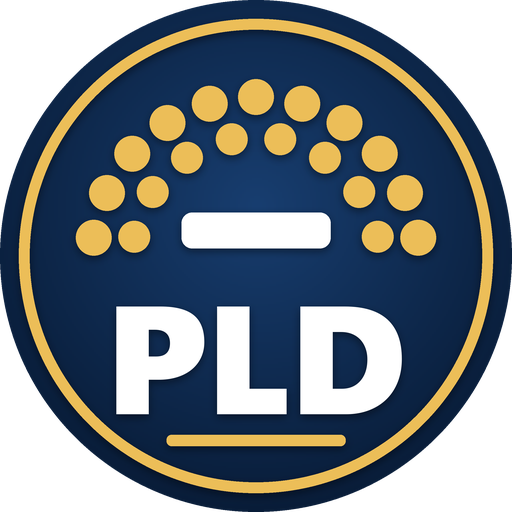
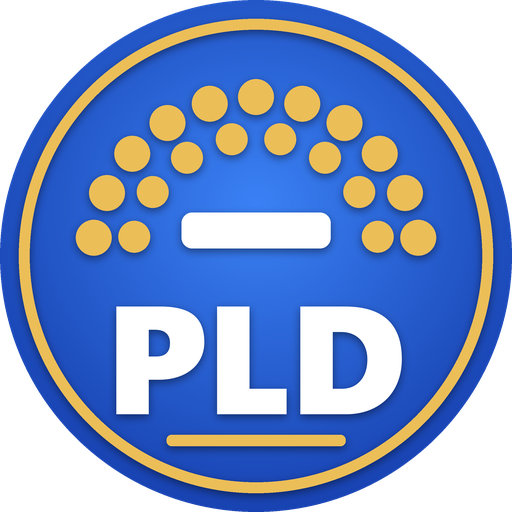
Ícone PLD azul; login passa a ter manifest/ícone (instalar pelo link não gera mais ícone genérico verde)

diff --git a/index.html b/index.html
@@ -7,6 +7,11 @@
     <script>/* Smart TV: sem login, entra direto no legislativo */ if (window.PldLogin && PldLogin.smartTV()) { document.documentElement.style.visibility = "hidden"; location.replace("dashboard.html"); }</script>
     <meta name="viewport" content="width=device-width, initial-scale=1.0">
     <title>Acesso ao Sistema</title>
+    <!-- Ícone do PLD (instalar no celular/tablet a partir do login) -->
+    <link rel="manifest" href="manifest.json">
+    <link rel="icon" type="image/png" sizes="192x192" href="img/icone-192.png">
+    <link rel="apple-touch-icon" href="img/apple-touch-icon.png">
+    <meta name="theme-color" content="#0B2545">
     <!-- Google Fonts -->
     <link href="https://fonts.googleapis.com/css2?family=Inter:wght@300;400;500;600;700&display=swap" rel="stylesheet">
     <!-- FontAwesome para Ícones -->

diff --git a/sw.js b/sw.js
@@ -8,7 +8,7 @@
  * - Bibliotecas externas (Firebase, Font Awesome, fontes, fotos): usa a cópia guardada e atualiza por trás.
  * - O banco de dados (Firebase Realtime Database) NUNCA passa por aqui.
  */
-var VERSAO = 'pld-offline-v130';
+var VERSAO = 'pld-offline-v131';
 var PAGINAS = [
   './', 'index.html', 'dashboard.html', 'votacao.html', 'controle_de_fala.html', 'presenca_plenaria.html',
   'sistema_sorteio.html', 'visualizar.js', 'js/tv-compat.js', 'js/tw-controle.css', 'js/tw-sorteio.css', 'js/tw-controle-moderno.css', 'js/tw-sorteio-moderno.css',
